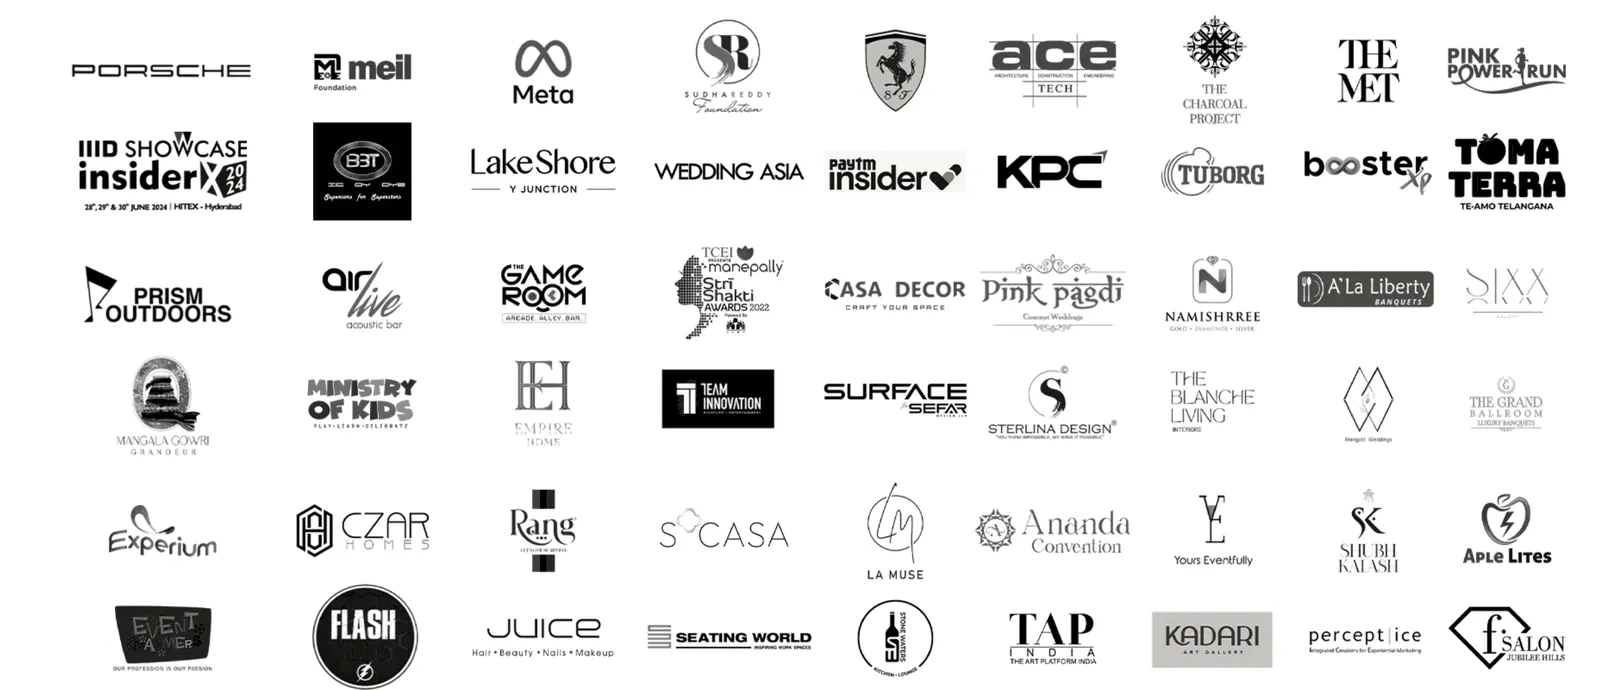
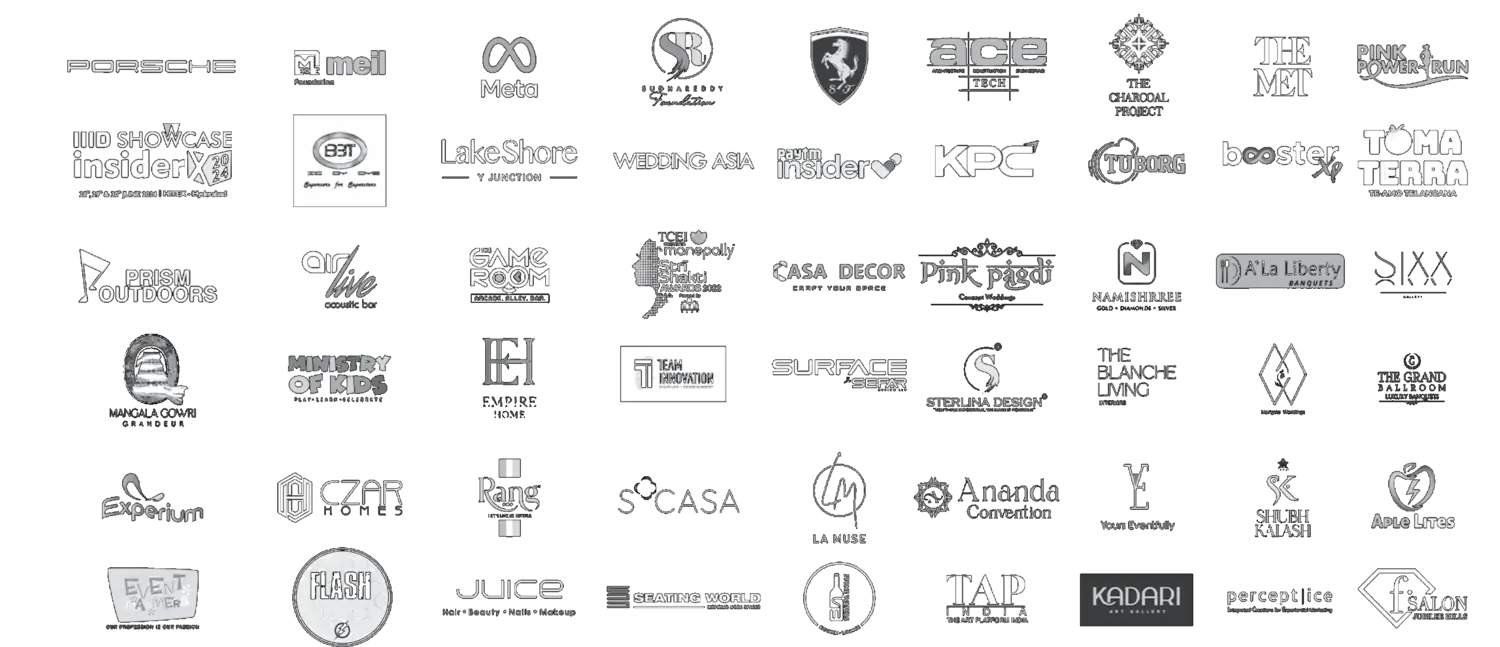
Clients section: real transparency, edge fade, one motion beat
BACKGROUND — the visible box was the source artwork's white field. Inverting
it in CSS turned that white into pure #000, which sat as a rectangle against
the page's #050505 ground. Fixed in the asset rather than papered over: the
crop is negated and its background keyed out to alpha, so the marks are white
on genuine transparency and the CSS invert filter is gone. 155KB with alpha,
still lazy and below the fold.

MOTION — one beat, not ten. A soft sheen crosses the wall once as the section
arrives, driven off the reveal's own data-shown so it fires with the section
rather than on an independent timer, and it is removed entirely under
prefers-reduced-motion. Logos rest at 0.72 opacity and come to full on hover.

The section now clips, so the image moved into an inner .clients__scroll —
otherwise the mask and the sheen would have nothing to be contained by. On
phones both edges fade, so the sideways scroll reads as "there is more"
instead of logos hitting a hard cut.

No horizontal overflow at 390 or 1440.

diff --git a/app/globals.css b/app/globals.css
@@ -532,13 +532,39 @@ a{color:inherit;text-decoration:none}
    Sixty-odd logos cannot be legible across a 390px phone at any layout, so
    the wall keeps a min-width and scrolls sideways there instead of shrinking
    every mark into illegibility. */
-.clients{overflow-x:auto;-webkit-overflow-scrolling:touch;scrollbar-width:thin}
+.clients{
+  position:relative;overflow:hidden;
+  -webkit-overflow-scrolling:touch;scrollbar-width:thin}
+.clients__scroll{overflow-x:auto;-webkit-overflow-scrolling:touch;scrollbar-width:thin}
 .clients img{
   width:100%;min-width:760px;height:auto;
-  filter:invert(1) grayscale(1);opacity:.8;
-  transition:opacity .5s var(--ease)}
+  opacity:.72;transition:opacity .6s var(--ease)}
 .clients:hover img{opacity:1}
 @media (max-width:700px){.clients img{min-width:660px}}
+
+/* One beat, not ten: a soft sheen crosses the wall once as it arrives, then
+   the section is still. Triggered off the reveal's own data-shown so it
+   fires with the section rather than on a timer of its own. */
+.clients::after{
+  content:"";position:absolute;inset:0;pointer-events:none;z-index:2;
+  background:linear-gradient(105deg,
+    transparent 38%,rgba(212,185,213,.14) 50%,transparent 62%);
+  transform:translateX(-130%)}
+.clients[data-shown="1"]::after{
+  animation:clients-sheen 1500ms var(--ease) 240ms 1 forwards}
+@keyframes clients-sheen{to{transform:translateX(130%)}}
+
+/* Fades the wall out at both edges so the sideways scroll on a phone reads
+   as "there is more", instead of logos hitting a hard cut. */
+@media (max-width:700px){
+  .clients{
+    -webkit-mask-image:linear-gradient(90deg,transparent,#000 5%,#000 95%,transparent);
+    mask-image:linear-gradient(90deg,transparent,#000 5%,#000 95%,transparent)}
+}
+
+@media (prefers-reduced-motion:reduce){
+  .clients::after{display:none}
+}
 
 /* ── reel engagement overlay ───────────────────────────────────────────
    Every figure is REAL, read per shortcode from the public profile API —

diff --git a/app/page.jsx b/app/page.jsx
@@ -207,14 +207,18 @@ export default function Page() {
             </span>
           </Reveal>
           <Reveal className="clients">
-            <img
-              src="/brand/clients.webp"
-              alt="Logos of brands the group has worked with, including Porsche, Meta, Paytm Insider, Tuborg and The MET"
-              loading="lazy"
-              decoding="async"
-              width="1500"
-              height="689"
-            />
+            {/* Inner scroller: .clients itself clips, so the edge mask and
+                the sheen have something to be contained by. */}
+            <div className="clients__scroll">
+              <img
+                src="/brand/clients.webp"
+                alt="Logos of brands the group has worked with, including Porsche, Meta, Paytm Insider, Tuborg and The MET"
+                loading="lazy"
+                decoding="async"
+                width="1500"
+                height="690"
+              />
+            </div>
           </Reveal>
         </section>
 
